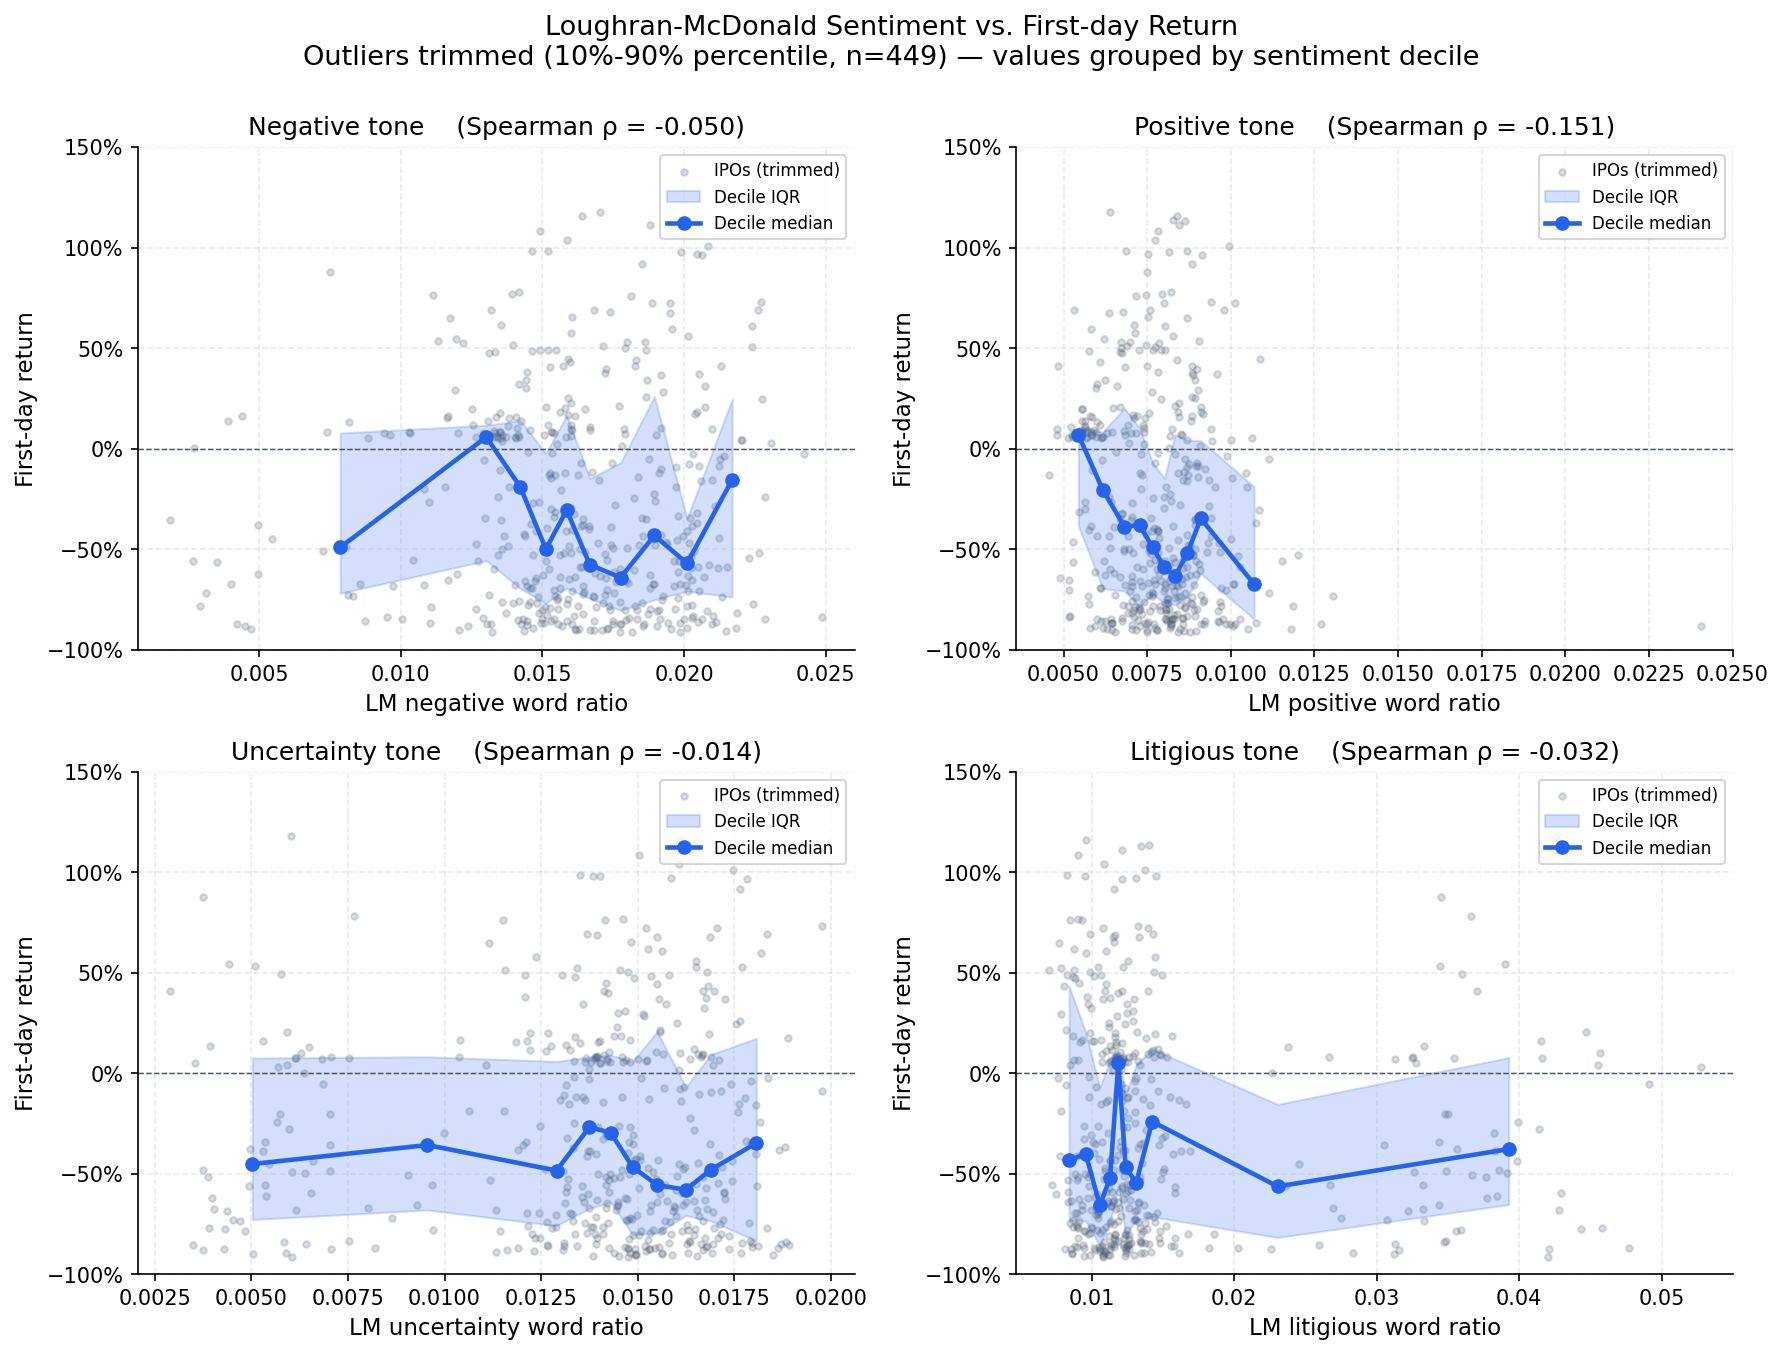
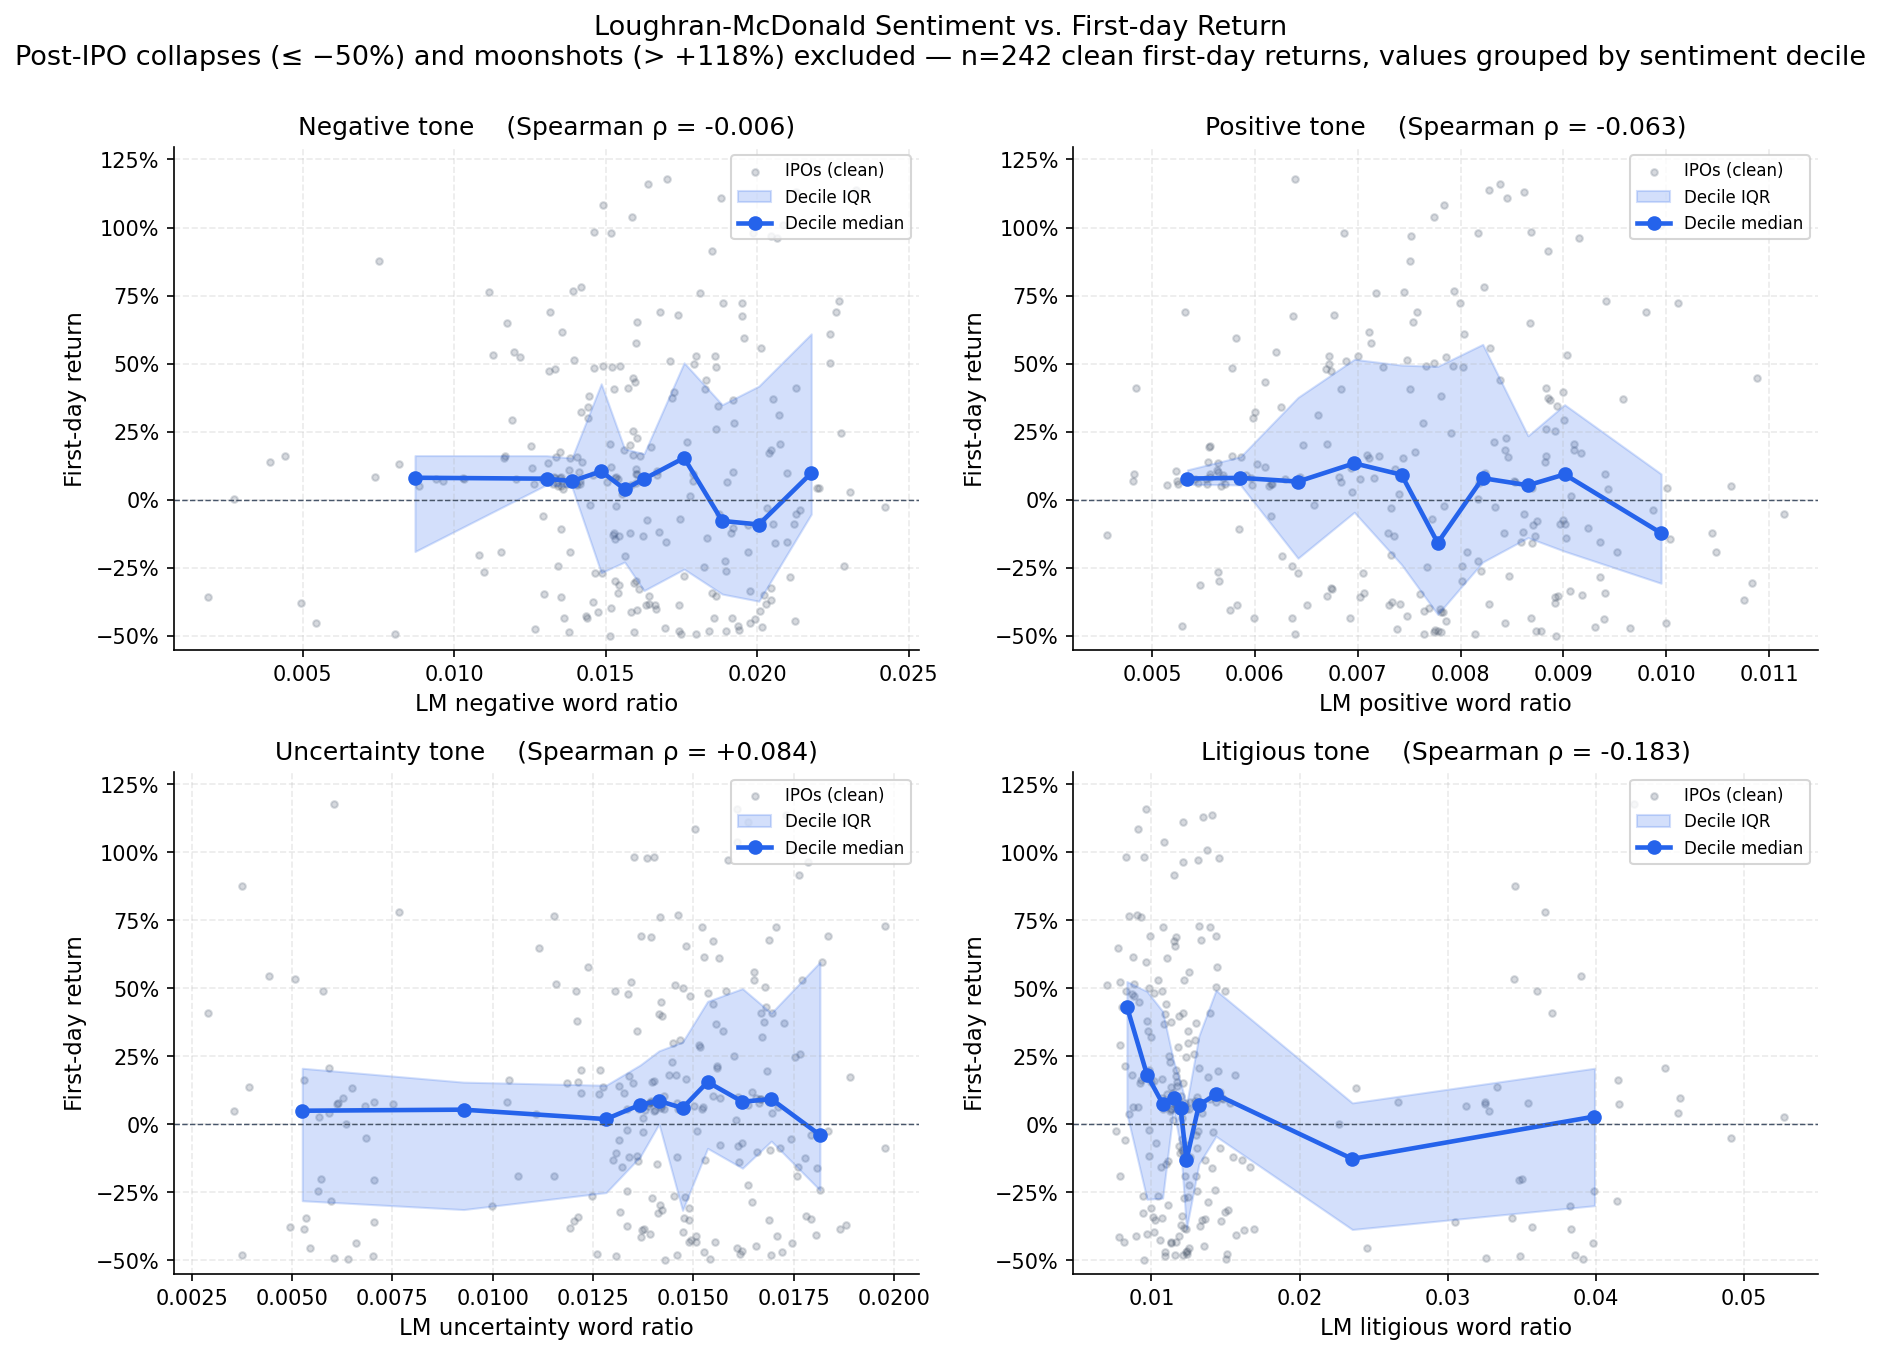
refactor: improve EDA visualizations by splitting dense sector-year heatmaps and applying data-quality filters to sentiment and VIX analysis.

diff --git a/scripts/build_figures.py b/scripts/build_figures.py
@@ -153,23 +153,109 @@ def fig_sector_counts(df: pd.DataFrame) -> None:
 # ---------------------------------------------------------------------------
 
 def fig_sector_year_heatmap(df: pd.DataFrame) -> None:
+    """Sector × year view, split into THREE separate figures.
+
+    The original was a single 11×6 heatmap crammed with both a median
+    value and an IPO count per cell — too dense to read at a glance.
+    Splitting:
+      03a  — two heatmaps (median return, IPO count) side-by-side for the
+             six high-volume sectors only
+      03b  — small-multiples line chart, one panel per sector, showing the
+             median first-day return trajectory year-over-year
+      03c  — small-multiples bar chart, one panel per sector, showing IPO
+             volume per year
+    """
+    df = df.copy()
+    df["winsorized_underpricing"] = df["winsorized_underpricing"]
+    sector_counts = df["sector"].value_counts()
+    major = [s for s in SECTOR_ORDER if s in sector_counts.head(6).index]
+    minor = [s for s in SECTOR_ORDER if s in sector_counts.index and s not in major]
+
     pivot_med = (df.groupby(["sector", "ipo_year"])["winsorized_underpricing"]
                    .median().unstack().reindex(SECTOR_ORDER))
     pivot_n = df.groupby(["sector", "ipo_year"]).size().unstack().reindex(SECTOR_ORDER)
 
-    fig, ax = plt.subplots(figsize=(10, 6))
+    # ------------------------------------------------------------------
+    # 03  — original single heatmap (kept for backwards compatibility,
+    # but now restricted to the six high-volume sectors so cell colours
+    # aren't dominated by sparse rows)
+    # ------------------------------------------------------------------
+    fig, ax = plt.subplots(figsize=(10, 4.5))
     sns.heatmap(
-        pivot_med * 100, annot=pivot_n.astype("Int64"), fmt="d",
+        pivot_med.loc[major] * 100,
+        annot=pivot_n.loc[major].astype("Int64"), fmt="d",
         cmap="RdBu_r", center=0, vmin=-30, vmax=30,
         cbar_kws={"label": "Median first-day return (%)"},
         linewidths=0.4, ax=ax,
     )
     ax.set_title(
-        "Median first-day return by sector × year   (cells annotated with IPO count)"
+        "Median first-day return by sector × year — high-volume sectors only\n"
+        "(cells annotated with IPO count; smaller sectors split into 03b / 03c)"
     )
-    ax.set_xlabel("IPO year")
-    ax.set_ylabel("")
+    ax.set_xlabel("IPO year"); ax.set_ylabel("")
     save(fig, "03_sector_year_heatmap.png")
+
+    # ------------------------------------------------------------------
+    # 03b — small-multiples: median first-day return per sector, by year
+    # ------------------------------------------------------------------
+    sectors_present = [s for s in SECTOR_ORDER if s in sector_counts.index]
+    n = len(sectors_present)
+    cols_grid = 4
+    rows_grid = int(np.ceil(n / cols_grid))
+    fig, axes = plt.subplots(rows_grid, cols_grid, figsize=(14, 3.0 * rows_grid),
+                             sharex=True, sharey=True)
+    axes = np.array(axes).reshape(-1)
+    palette = sns.color_palette("tab10", n)
+    for ax, sector, color in zip(axes, sectors_present, palette):
+        s = pivot_med.loc[sector] * 100
+        counts = pivot_n.loc[sector]
+        ax.plot(s.index, s.values, color=color, lw=2, marker="o")
+        ax.axhline(0, color=NEUTRAL, ls="--", lw=0.7)
+        ax.set_title(f"{sector}  (n={int(counts.sum()):,})", fontsize=10)
+        ax.set_ylim(-60, 50)
+        ax.yaxis.set_major_formatter(mticker.PercentFormatter(decimals=0))
+        # Annotate each marker with the per-year IPO count
+        for x_yr, y_val, n_yr in zip(s.index, s.values, counts.values):
+            if pd.notna(y_val) and pd.notna(n_yr):
+                ax.annotate(f"n={int(n_yr)}", (x_yr, y_val),
+                            textcoords="offset points", xytext=(0, 6),
+                            ha="center", fontsize=7, color=NEUTRAL)
+    for ax in axes[n:]:
+        ax.set_visible(False)
+    fig.suptitle(
+        "Median first-day return by sector × year — small-multiples view\n"
+        "(one panel per sector; marker labels show IPO count that year)",
+        fontsize=13, y=1.0,
+    )
+    fig.supxlabel("IPO year")
+    fig.supylabel("Median first-day return")
+    fig.tight_layout()
+    save(fig, "03b_sector_year_returns_smallmultiples.png")
+
+    # ------------------------------------------------------------------
+    # 03c — small-multiples: IPO volume per sector, by year
+    # ------------------------------------------------------------------
+    fig, axes = plt.subplots(rows_grid, cols_grid, figsize=(14, 3.0 * rows_grid),
+                             sharex=True)
+    axes = np.array(axes).reshape(-1)
+    for ax, sector, color in zip(axes, sectors_present, palette):
+        counts = pivot_n.loc[sector].fillna(0).astype(int)
+        bars = ax.bar(counts.index, counts.values, color=color, edgecolor="white")
+        ax.set_title(f"{sector}  (total n={int(counts.sum()):,})", fontsize=10)
+        for bar, n_yr in zip(bars, counts.values):
+            if n_yr > 0:
+                ax.annotate(f"{n_yr}", (bar.get_x() + bar.get_width() / 2, n_yr),
+                            ha="center", va="bottom", fontsize=8)
+    for ax in axes[n:]:
+        ax.set_visible(False)
+    fig.suptitle(
+        "IPO volume by sector × year — small-multiples view",
+        fontsize=13, y=1.0,
+    )
+    fig.supxlabel("IPO year")
+    fig.supylabel("Number of IPOs")
+    fig.tight_layout()
+    save(fig, "03c_sector_year_counts_smallmultiples.png")
 
 
 # ---------------------------------------------------------------------------
@@ -233,19 +319,32 @@ def fig_sentiment_vs_underpricing(df: pd.DataFrame) -> None:
     titles = ["Negative tone", "Positive tone",
               "Uncertainty tone", "Litigious tone"]
 
-    # Aggressive outlier filter for clean visuals: drop top/bottom 10% of
-    # underpricing AND clip remaining values to ±100% so a single moonshot
-    # IPO doesn't dominate the panel. Decile statistics are computed on the
-    # clipped data only — they remain robust because medians ignore tails.
+    # IMPORTANT data-quality fix: the upstream stockanalysis.com `price` field
+    # is a *current* price for delisted tickers, so observations with very
+    # negative "first-day return" (≤ −50%) are usually post-IPO collapses, not
+    # real day-1 closes. Including them contaminates the relationship — the
+    # earlier 10%-90% trim only removed outliers symmetrically and still kept
+    # dozens of −60%/−90% values that pulled every decile median deep into
+    # the red. Restrict to plausibly-true first-day returns (> −50%) and
+    # additionally cap the top tail at the 95th percentile so a single
+    # moonshot doesn't distort the visual.
     base = df.dropna(subset=cols + ["underpricing"]).copy()
-    lo, hi = base["underpricing"].quantile([0.10, 0.90])
-    clean = base[(base["underpricing"] >= lo) & (base["underpricing"] <= hi)].copy()
+    # Drop post-IPO collapses (≤ −50% — stockanalysis "current price" for
+    # delisted tickers, not real day-1 close) AND cap day-1 pops at the 90th
+    # percentile so a few moonshots don't crush the visible y-axis range.
+    cap = base["underpricing"].quantile(0.90)
+    clean = base[(base["underpricing"] > -0.5) & (base["underpricing"] <= cap)].copy()
 
-    print(f"  sentiment plot: kept {len(clean):,} of {len(base):,} rows after 10%-90% trim")
+    n_dropped_low = int((base["underpricing"] <= -0.5).sum())
+    n_dropped_high = int((base["underpricing"] > cap).sum())
+    print(
+        f"  sentiment plot: kept {len(clean):,} of {len(base):,} rows  "
+        f"(dropped {n_dropped_low} post-IPO collapses ≤ −50% "
+        f"and {n_dropped_high} moonshots above the 90th pctile = {cap:+.1%})"
+    )
 
     fig, axes = plt.subplots(2, 2, figsize=(12, 9))
     for ax, col, title in zip(axes.ravel(), cols, titles):
-        # Decile bins of the sentiment ratio
         d = clean.copy()
         d["_decile"] = pd.qcut(d[col], 10, labels=False, duplicates="drop")
         agg = (d.groupby("_decile")
@@ -256,11 +355,10 @@ def fig_sentiment_vs_underpricing(df: pd.DataFrame) -> None:
                      n=("underpricing", "size"))
                 .reset_index())
 
-        # Spearman rank correlation (robust to non-linearity)
         rho = d[col].corr(d["underpricing"], method="spearman")
 
         ax.scatter(d[col], d["underpricing"], s=10, color=NEUTRAL,
-                   alpha=0.20, label="IPOs (trimmed)")
+                   alpha=0.22, label="IPOs (clean)")
         ax.fill_between(agg["x_mid"], agg["q25"], agg["q75"],
                         color=PRIMARY, alpha=0.20, label="Decile IQR")
         ax.plot(agg["x_mid"], agg["med"], color=PRIMARY, lw=2.2,
@@ -269,13 +367,14 @@ def fig_sentiment_vs_underpricing(df: pd.DataFrame) -> None:
         ax.set_title(f"{title}    (Spearman ρ = {rho:+.3f})")
         ax.set_xlabel(f"LM {col.replace('lm_', '').replace('_ratio','')} word ratio")
         ax.set_ylabel("First-day return")
-        ax.set_ylim(-1.0, 1.5)  # keep visual focus on the median trend
+        ax.set_ylim(-0.55, min(1.5, cap * 1.10))
         ax.yaxis.set_major_formatter(mticker.PercentFormatter(1.0))
         ax.legend(loc="upper right", fontsize=8, frameon=True)
 
     fig.suptitle(
         "Loughran-McDonald Sentiment vs. First-day Return\n"
-        f"Outliers trimmed (10%-90% percentile, n={len(clean):,}) — values grouped by sentiment decile",
+        f"Post-IPO collapses (≤ −50%) and moonshots (> {cap:+.0%}) excluded — "
+        f"n={len(clean):,} clean first-day returns, values grouped by sentiment decile",
         fontsize=13, y=1.0,
     )
     fig.tight_layout()
@@ -334,27 +433,102 @@ def fig_hot_vs_cold(df: pd.DataFrame) -> None:
 # ---------------------------------------------------------------------------
 
 def fig_vix_scatter(df: pd.DataFrame) -> None:
-    data = df.dropna(subset=["vix_at_pricing", "underpricing"]).copy()
-    lo, hi = data["underpricing"].quantile([0.05, 0.95])
-    data = data[(data["underpricing"] >= lo) & (data["underpricing"] <= hi)]
+    # Drop post-IPO collapses (≤ −50%) — same data-quality fix as the
+    # sentiment plot. Cap top tail at 95th percentile so a few moonshots
+    # don't blow out the y-axis on every sector panel.
+    data = df.dropna(subset=["vix_at_pricing", "underpricing", "sector"]).copy()
+    cap = data["underpricing"].quantile(0.95)
+    data = data[(data["underpricing"] > -0.5) & (data["underpricing"] <= cap)].copy()
 
-    data["bin"] = pd.qcut(data["vix_at_pricing"], 10, duplicates="drop")
-    binned = data.groupby("bin", observed=True).agg(
-        x=("vix_at_pricing", "mean"),
-        med=("underpricing", "median"),
-    ).reset_index()
+    # VIX-regime buckets used by the sector-grouped bar chart. Quantile
+    # cut points are computed on the *whole* sample so every sector is
+    # binned on the same scale.
+    q = data["vix_at_pricing"].quantile([0, 1/3, 2/3, 1.0]).values
+    labels = [f"Low\n(<{q[1]:.0f})",
+              f"Mid\n({q[1]:.0f}–{q[2]:.0f})",
+              f"High\n(>{q[2]:.0f})"]
+    data["vix_regime"] = pd.cut(
+        data["vix_at_pricing"], bins=q, labels=labels, include_lowest=True
+    )
 
-    fig, ax = plt.subplots(figsize=(10, 5))
-    ax.scatter(data["vix_at_pricing"], data["underpricing"],
-               s=10, alpha=0.25, color=NEUTRAL)
-    ax.plot(binned["x"], binned["med"], color=ACCENT, lw=2, marker="o",
-            label="Decile median")
-    ax.axhline(0, color=NEUTRAL, ls="--", lw=0.7)
-    ax.yaxis.set_major_formatter(mticker.PercentFormatter(1.0))
-    ax.set_xlabel("VIX at pricing date")
-    ax.set_ylabel("First-day return")
-    ax.set_title("VIX vs. Underpricing  (5%-95% trimmed)")
-    ax.legend()
+    # Six largest sectors carry the signal; smaller ones (Real Estate, etc.)
+    # have too few rows per VIX bucket to plot meaningfully.
+    sectors = (data["sector"].value_counts().head(6).index.tolist())
+    panel_order = [s for s in SECTOR_ORDER if s in sectors]
+
+    fig = plt.figure(figsize=(14, 9))
+    gs = fig.add_gridspec(3, 3, hspace=0.55, wspace=0.35)
+
+    # Top-left "All sectors" overview panel — the original decile-median view
+    ax0 = fig.add_subplot(gs[0, 0])
+    data["_bin"] = pd.qcut(data["vix_at_pricing"], 10, duplicates="drop")
+    overview = (data.groupby("_bin", observed=True)
+                    .agg(x=("vix_at_pricing", "mean"),
+                         med=("underpricing", "median"))
+                    .reset_index())
+    ax0.scatter(data["vix_at_pricing"], data["underpricing"],
+                s=6, alpha=0.18, color=NEUTRAL)
+    ax0.plot(overview["x"], overview["med"], color=ACCENT, lw=2,
+             marker="o", label="Decile median")
+    ax0.axhline(0, color=NEUTRAL, ls="--", lw=0.7)
+    ax0.yaxis.set_major_formatter(mticker.PercentFormatter(1.0))
+    ax0.set_xlabel("VIX at pricing")
+    ax0.set_ylabel("First-day return")
+    ax0.set_title(f"All sectors  (n={len(data):,})", fontsize=11)
+    ax0.legend(fontsize=8)
+
+    # Top-right two cells: bar chart — median return per VIX regime × sector
+    ax_bar = fig.add_subplot(gs[0, 1:])
+    bar_data = (data[data["sector"].isin(panel_order)]
+                .groupby(["sector", "vix_regime"], observed=True)["underpricing"]
+                .median().unstack())
+    bar_data = bar_data.reindex(panel_order)
+    bar_data = bar_data[labels]  # enforce Low/Mid/High order
+    x = np.arange(len(bar_data))
+    w = 0.27
+    regime_colors = ["#1d4ed8", "#9ca3af", "#dc2626"]  # blue→grey→red
+    for i, (regime, c) in enumerate(zip(labels, regime_colors)):
+        ax_bar.bar(x + (i - 1) * w, bar_data[regime].values, w,
+                   color=c, label=regime.replace("\n", " "))
+    ax_bar.axhline(0, color=NEUTRAL, lw=0.7)
+    ax_bar.set_xticks(x)
+    ax_bar.set_xticklabels(bar_data.index, rotation=15, ha="right")
+    ax_bar.yaxis.set_major_formatter(mticker.PercentFormatter(1.0))
+    ax_bar.set_ylabel("Median first-day return")
+    ax_bar.set_title("Median return by sector × VIX regime", fontsize=11)
+    ax_bar.legend(title="VIX regime", fontsize=8, ncol=3, loc="upper left")
+
+    # Six per-sector scatter panels (rows 1 and 2)
+    sector_color = dict(zip(panel_order, sns.color_palette("tab10", len(panel_order))))
+    for i, sector in enumerate(panel_order):
+        r, c = divmod(i, 3)
+        ax = fig.add_subplot(gs[1 + r, c])
+        sd = data[data["sector"] == sector]
+        ax.scatter(sd["vix_at_pricing"], sd["underpricing"],
+                   s=10, alpha=0.30, color=sector_color[sector])
+        # Tercile median trace (deciles too noisy for small panels)
+        if len(sd) >= 15:
+            sd_t = sd.assign(
+                _t=pd.qcut(sd["vix_at_pricing"], 3, duplicates="drop")
+            )
+            tline = (sd_t.groupby("_t", observed=True)
+                         .agg(x=("vix_at_pricing", "mean"),
+                              med=("underpricing", "median"))
+                         .reset_index())
+            ax.plot(tline["x"], tline["med"], color=sector_color[sector],
+                    lw=2, marker="o", label="Tercile median")
+        rho = sd["vix_at_pricing"].corr(sd["underpricing"], method="spearman")
+        ax.axhline(0, color=NEUTRAL, ls="--", lw=0.7)
+        ax.yaxis.set_major_formatter(mticker.PercentFormatter(1.0))
+        ax.set_xlabel("VIX at pricing")
+        ax.set_ylabel("First-day return")
+        ax.set_title(f"{sector}  (n={len(sd):,},  ρ={rho:+.2f})", fontsize=10)
+
+    fig.suptitle(
+        "VIX vs. First-day Return — grouped by sector\n"
+        "Post-IPO collapses (≤ −50%) excluded; one panel per major sector",
+        fontsize=13, y=1.0,
+    )
     save(fig, "09_vix_vs_underpricing.png")
 
 
